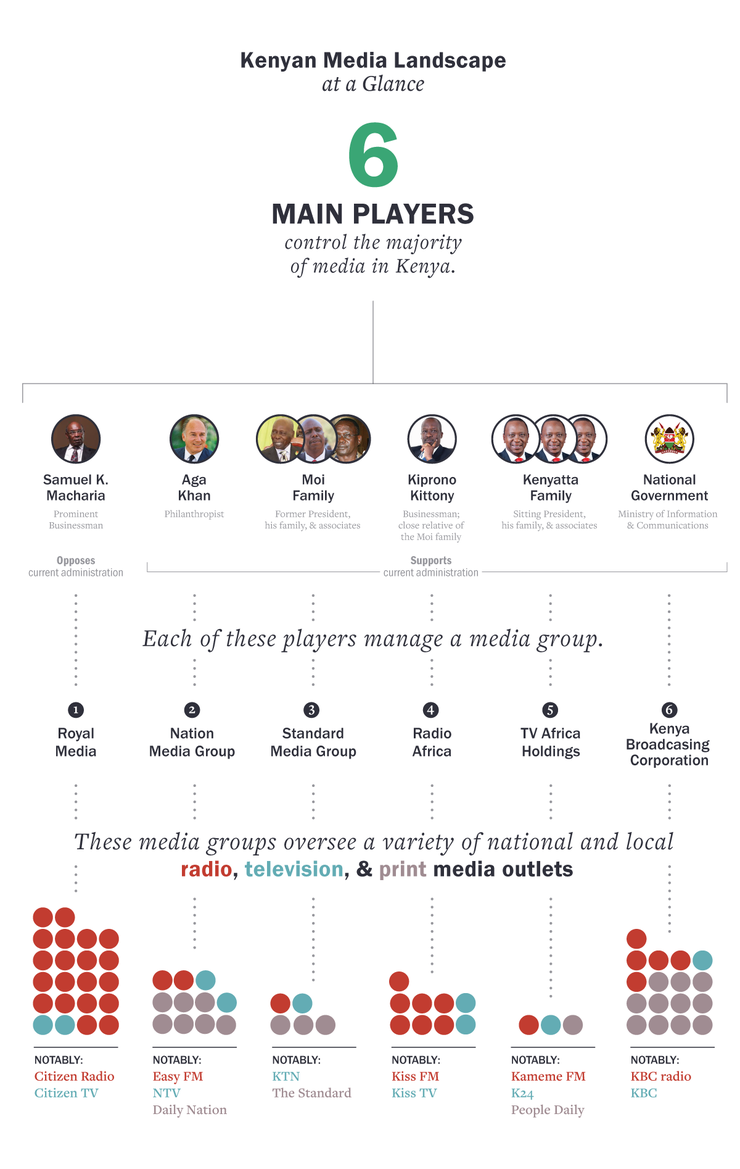
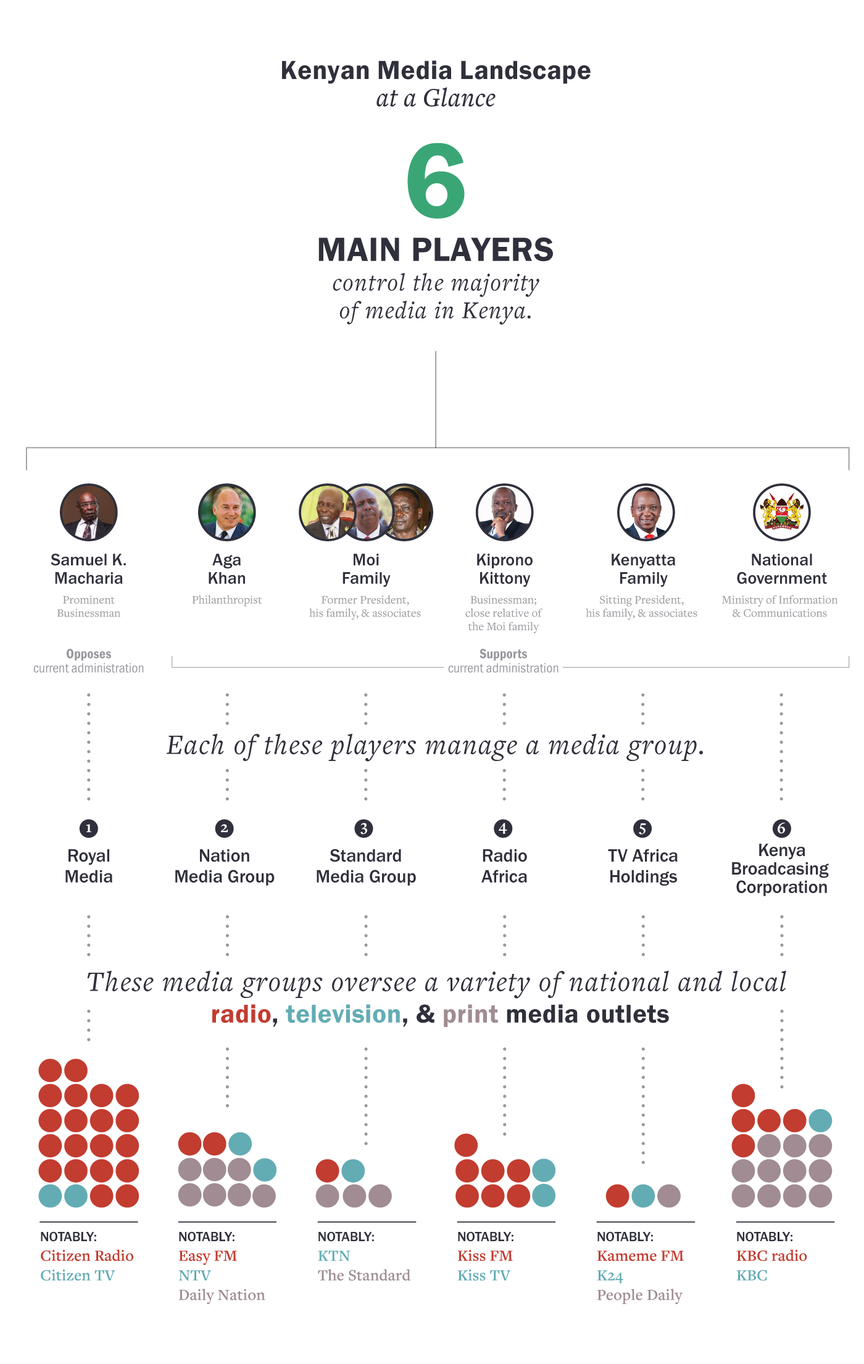
Removed extraneous kenyatta images

diff --git a/_site/assets/main.css b/_site/assets/main.css
@@ -1,1 +1,1 @@
-html,body,div,span,applet,object,iframe{margin:0;padding:0;border:0;font-size:100%;font:inherit;vertical-align:baseline}article,aside,details,figcaption,figure,footer,header,hgroup,menu,nav,section{display:block}/*! normalize.css v6.0.0 | MIT License | github.com/necolas/normalize.css */html{line-height:1.15;-ms-text-size-adjust:100%;-webkit-text-size-adjust:100%}article,aside,footer,header,nav,section{display:block}h1{font-size:2em;margin:0.67em 0}figcaption,figure,main{display:block}figure{margin:1em 40px}hr{box-sizing:content-box;height:0;overflow:visible}pre{font-family:monospace, monospace;font-size:1em}a{background-color:transparent;-webkit-text-decoration-skip:objects}abbr[title]{border-bottom:none;text-decoration:underline;text-decoration:underline dotted}b,strong{font-weight:inherit}b,strong{font-weight:bolder}code,kbd,samp{font-family:monospace, monospace;font-size:1em}dfn{font-style:italic}mark{background-color:#ff0;color:#000}small{font-size:80%}sub,sup{font-size:75%;line-height:0;position:relative;vertical-align:baseline}sub{bottom:-0.25em}sup{top:-0.5em}audio,video{display:inline-block}audio:not([controls]){display:none;height:0}img{border-style:none}svg:not(:root){overflow:hidden}button,input,optgroup,select,textarea{margin:0}button,input{overflow:visible}button,select{text-transform:none}button,html [type="button"],[type="reset"],[type="submit"]{-webkit-appearance:button}button::-moz-focus-inner,[type="button"]::-moz-focus-inner,[type="reset"]::-moz-focus-inner,[type="submit"]::-moz-focus-inner{border-style:none;padding:0}button:-moz-focusring,[type="button"]:-moz-focusring,[type="reset"]:-moz-focusring,[type="submit"]:-moz-focusring{outline:1px dotted ButtonText}legend{box-sizing:border-box;color:inherit;display:table;max-width:100%;padding:0;white-space:normal}progress{display:inline-block;vertical-align:baseline}textarea{overflow:auto}[type="checkbox"],[type="radio"]{box-sizing:border-box;padding:0}[type="number"]::-webkit-inner-spin-button,[type="number"]::-webkit-outer-spin-button{height:auto}[type="search"]{-webkit-appearance:textfield;outline-offset:-2px}[type="search"]::-webkit-search-cancel-button,[type="search"]::-webkit-search-decoration{-webkit-appearance:none}::-webkit-file-upload-button{-webkit-appearance:button;font:inherit}details,menu{display:block}summary{display:list-item}canvas{display:inline-block}template{display:none}[hidden]{display:none}*,*::before,*::after{box-sizing:border-box}body{background:#2e2f3a;color:#f7f7f7;font-family:"freight-text-pro",serif}img{max-width:100%}.wrapper{margin:0 auto;width:100%;max-width:1200px;padding:0 2.5rem}@media (max-width: 600px){.wrapper{padding-left:1rem;padding-right:1rem}}.header{background:#E8E8E8;border-bottom:0.8rem solid #3ca573;padding:1.5rem 0;overflow:hidden;-webkit-transition:height .5s ease;transition:height .5s ease}.header__wrap{height:13rem}@media (max-width: 600px){.header__wrap{height:auto}}.header--down{height:6.5rem;position:fixed;top:-1px;padding:0;width:100%;z-index:5}@media (max-width: 600px){.header--down{height:auto;position:static}}.header--up{border:0;height:0;position:fixed;top:0;padding:0;width:100%;z-index:2}@media (max-width: 600px){.header--up{height:auto;position:static}}.header__logo{display:block;float:left;margin:0 auto;text-align:center;text-decoration:none;width:12rem}.content>*{margin-left:33%}@media (max-width: 600px){.content>*{margin-left:0}}section{padding-top:1.8rem}section:last-of-type{padding-bottom:6rem}figure{margin:2rem 0 4rem}figure figcaption{font-family:"freight-text-pro",serif;line-height:1.3;margin:1rem 0 2rem 0;text-align:left}figure .source{font-style:italic;opacity:.5}figure>img{width:100%}.fullWidth.fullWidth{margin-left:0;position:relative;width:100%}.no-scroll{overflow:hidden}.clearfix{clear:both}.arrowWrap{display:inline-block;vertical-align:middle}.arrowWrap a{display:inline-block;border-radius:50%}.arrowWrap .left{display:inline-block;width:4rem;height:4rem;border:0.5rem solid #ecef86;border-radius:50%;margin-right:1.5rem}.arrowWrap .left:after{content:'';display:inline-block;margin-top:.8rem;margin-left:.9rem;width:1.4rem;height:1.4rem;border-top:0.5rem solid #ecef86;border-right:0.5rem solid #ecef86;-webkit-transform:rotate(-135deg);transform:rotate(-135deg)}.arrowWrap .right{display:inline-block;width:4rem;height:4rem;border:0.5em solid #ecef86;border-radius:50%;margin-left:1.5rem}.arrowWrap .right:after{content:'';display:inline-block;margin-top:.8rem;margin-left:.6rem;width:1.4rem;height:1.4rem;border-top:0.5rem solid #ecef86;border-right:0.5rem solid #ecef86;-webkit-transform:rotate(45deg);transform:rotate(45deg)}.flexColumns{display:-webkit-box;display:-ms-flexbox;display:flex;-webkit-box-orient:horizontal;-webkit-box-direction:normal;-ms-flex-direction:row;flex-direction:row}@media (max-width: 600px){.flexColumns{-webkit-box-orient:vertical;-webkit-box-direction:normal;-ms-flex-direction:column;flex-direction:column}}.col-1-2{width:50%}@media (max-width: 600px){.col-1-2{width:100%}}.iframe{max-width:100%}.wf-loading a,.wf-loading span,.wf-loading h1,.wf-loading h2,.wf-loading h3,.wf-loading h4,.wf-loading p{visibility:hidden}h1,h2,h3,h4,h5,h6{font-family:"franklin-gothic-urw",sans-serif}h1{font-size:3.8rem;font-weight:700;line-height:1;max-width:27rem}@media (max-width: 768px){h1{font-size:2.8rem}}@media (max-width: 600px){h1{font-size:2rem}}h2{color:#ecef86;font-size:2.5rem;font-weight:700;line-height:1;padding:0 0 1rem 0}.bg--white h2{color:#3ca573;border-color:#9f9fa5}.bg--green h2{color:#f7f7f7;border-color:#f7f7f7}.bg--lightGrey h2{color:#313131;border-color:#313131}h3{color:#3ca573;font-size:2rem}.bg--green h3{color:#f7f7f7}h4{color:#f7f7f7;font-size:1.5rem;margin-bottom:1rem}.bg--lightGrey h4{color:#2e2f3a}.bg--white h4{color:#2e2f3a}h5{font-size:1.2rem}p{font-family:"franklin-gothic-urw",sans-serif;font-size:1.14rem;line-height:1.55;margin:0 0 1rem 0}p a{-webkit-transition:.2s all ease;transition:.2s all ease;border-color:rgba(236,239,134,0)}p a:link,p a:active{color:#ecef86;text-decoration:none}p a:hover{border-bottom:1px solid;border-color:#ecef86}p a:visited{color:#c6c27d}ul{line-height:1.5}blockquote{margin:0;padding:0}blockquote p{color:#ecef86;font-family:"freight-text-pro",serif;font-size:2.3rem;font-style:italic;font-weight:700;line-height:1.3;margin:2rem 0 2.5rem}.bg--white blockquote p,.bg--lightGrey blockquote p{color:#3ca573}blockquote.floatLeft p{font-size:2rem;line-height:1.2;margin:0 1rem 1rem 0}@media (max-width: 768px){blockquote.floatLeft p{font-size:1.5rem}}.content a[target="_blank"]::after{content:'';background:no-repeat url("img/externalArrow.png");display:inline-block;height:10px;margin:0 3px 0 5px;width:10px}.subheading{color:#313131;font-family:"freight-text-pro",serif;font-size:1.8rem;font-style:italic;font-weight:700;line-height:1.3}.introduction>p:nth-of-type(1){border-bottom:4px solid #ecef86;font-family:"freight-text-pro",serif;font-size:1.5rem;line-height:1.6;margin-bottom:2.7rem;padding:1.8rem 0}.introduction>p:nth-of-type(1)::first-letter{color:#ecef86;float:left;font-family:"freight-text-pro",serif;font-size:6rem;line-height:.7;margin-top:.3rem;padding-right:.7rem}.twoColumnWrap.twoColumnWrap{max-width:calc((1200px * (2/3)) - (2.5rem/2))}@media (max-width: 600px){.twoColumnWrap.twoColumnWrap{padding-left:1rem;padding-right:1rem;width:100%}}.constituentCard{margin-left:calc(33% - (2.5rem / 2))}@media (max-width: 600px){.constituentCard{margin:0}}.constituentCard__bottom{background:#f7f7f7;padding:1.5rem 0 0}.constituentCard__bottom>*{margin-left:2.5rem}@media (max-width: 600px){.constituentCard__bottom>*{margin-left:0}}.constituentCard__bottom h2{color:#2e2f3a;margin-top:0}.constituentCard__bottom .title{font-size:3.5rem;font-weight:700}@media (max-width: 600px){.constituentCard__bottom .title{font-size:2.5rem}}.preTitle{display:block;font-size:1.6rem;font-weight:500;letter-spacing:5px;opacity:.5;text-transform:uppercase}@media (max-width: 600px){.preTitle{font-size:1.3rem}}.constituent>.content:first-child{padding-bottom:3rem;padding-top:2rem}.homepageTitle h1{color:#f7f7f7;font-family:"freight-text-pro",serif;font-size:4rem;line-height:1;margin:3rem 0 1rem 0;max-width:32rem}.homepageTitle .subheading{color:#f7f7f7;display:block;font-family:"franklin-gothic-urw",sans-serif;font-size:2.4rem;font-style:normal;line-height:1.1;margin:0 0 2rem 0;opacity:.4;max-width:30rem}.homepageImg{float:right;margin-top:-5rem;width:100%;max-width:46em}@media (max-width: 600px){.homepageImg{margin-top:2rem}}.flyOut__inner__text.flyOut__inner__text h1,.flyOut__inner__text.flyOut__inner__text h2,.flyOut__inner__text.flyOut__inner__text h3,.flyOut__inner__text.flyOut__inner__text h4,.flyOut__inner__text.flyOut__inner__text h5,.flyOut__inner__text.flyOut__inner__text h6,.flyOut__inner__text.flyOut__inner__text p{font-family:"franklin-gothic-urw",sans-serif}.flyOut__inner__text.flyOut__inner__text h3{color:#2e2f3a}.flyOut__inner__text.flyOut__inner__text h4{color:#3ca573}.flyOut__inner__text.flyOut__inner__text p{color:#313131}.nextSection{display:block;font-size:2rem;margin:2rem auto;text-align:center;max-width:32rem}.nextSection a:active,.nextSection a:hover,.nextSection a:link,.nextSection a:visited{color:#f7f7f7;text-decoration:none}#g-ON_matrix-desktop .flyOut__inner__text p,#g-ON_matrix-tablet .flyOut__inner__text p,#g-ON_matrix-mobile .flyOut__inner__text p{color:#313131}#g-ON_matrix-desktop .flyOut__inner__text p a:link,#g-ON_matrix-desktop .flyOut__inner__text p a:active,#g-ON_matrix-tablet .flyOut__inner__text p a:link,#g-ON_matrix-tablet .flyOut__inner__text p a:active,#g-ON_matrix-mobile .flyOut__inner__text p a:link,#g-ON_matrix-mobile .flyOut__inner__text p a:active{color:#3ca573}#g-ON_matrix-desktop .flyOut__inner__text p a:hover,#g-ON_matrix-tablet .flyOut__inner__text p a:hover,#g-ON_matrix-mobile .flyOut__inner__text p a:hover{opacity:.8}#g-ON_matrix-desktop .flyOut__inner__text p a:visited,#g-ON_matrix-tablet .flyOut__inner__text p a:visited,#g-ON_matrix-mobile .flyOut__inner__text p a:visited{color:#a4cdac}nav{font-family:"franklin-gothic-urw",sans-serif}.mainNav{border-top:1px solid #9f9fa5;display:-webkit-box;display:-ms-flexbox;display:flex;float:right;-webkit-box-pack:justify;-ms-flex-pack:justify;justify-content:space-between;line-height:1;padding:0 0 1rem;width:66%}@media (max-width: 600px){.mainNav{clear:both;-webkit-box-orient:vertical;-webkit-box-direction:normal;-ms-flex-direction:column;flex-direction:column;float:left;display:none;margin-top:2rem;width:100%}}.mainNav a{width:33%;color:#3ca573;margin:0 0 0 2rem;padding:1rem 0 0 0;position:relative;text-decoration:none}@media (max-width: 600px){.mainNav a{display:block;margin:0 auto 1rem;width:100%}}.mainNav a:first-child{margin-left:0}@media (max-width: 600px){.mainNav a:first-child{margin-left:auto}}.mainNav a:first-child::after{background:#313131;content:'';height:0rem;left:-1rem;position:absolute;top:0;width:0px}.mainNav a::after{background:#9f9fa5;content:'';height:1.5rem;left:-1rem;position:absolute;top:0;width:1px}@media (max-width: 600px){.mainNav a::after{height:0;width:0}}.mainNav a.active{color:#2e2f3a}.mainNav__preTitle{color:#9f9fa5;display:block;font-family:"franklin-gothic-urw",sans-serif;font-size:.9rem;letter-spacing:2px;margin-bottom:.2rem;text-transform:uppercase}.mainNav__title{display:block;font-size:1.2rem;font-weight:700;max-width:16rem}.mainNav__button{display:none}@media (max-width: 600px){.mainNav__button{color:#2e2f3a;display:block;float:right;font-size:2rem}}.toc.toc{color:white;counter-reset:item;float:left;margin-left:calc(-21rem + 2rem);padding:1.8rem 0 1.8rem 0;position:-webkit-sticky;position:sticky;top:calc(50vh - 4.5rem);-webkit-transform:translateY(-50%);transform:translateY(-50%);-webkit-transition:.8s all ease;transition:.8s all ease;width:21rem;z-index:4}.toc.toc:hover{margin-left:0}@media (max-width: 600px){.toc.toc{float:none;margin:0 auto;padding:0;position:static;-webkit-transform:none;transform:none;width:100%}}.toc.toc li{position:relative}.toc.toc li:first-of-type{border-radius:0 .5rem 0 0;overflow:hidden}@media (max-width: 600px){.toc.toc li:first-of-type{border-radius:0}}.toc.toc li:last-of-type{border-radius:0 0 .5rem 0;overflow:hidden}@media (max-width: 600px){.toc.toc li:last-of-type{border-radius:0}}.toc.toc li::after{content:counter(item);counter-increment:item;font-family:"franklin-gothic-urw",sans-serif;position:absolute;right:.8rem;text-shadow:1px 1px 1px rgba(0,0,0,0.3);top:1rem}.toc.toc a{background:#3ca573;color:#f7f7f7;display:block;padding:1rem;text-decoration:none;-webkit-transition:.4s all ease;transition:.4s all ease}.toc.toc a:link,.toc.toc a:visited,.toc.toc a:active{color:#f7f7f7}.toc.toc a:hover{background:#a4cdac;color:#f7f7f7}.toc.toc .nav-active.nav-active{background:#ecef86;color:#2e2f3a}.toc ul{font-family:"freight-text-pro",serif;font-size:1.2rem;list-style-type:none;margin:0;padding:0}.toc__preTitle{color:#9f9fa5;display:block;font-family:"franklin-gothic-urw",sans-serif;letter-spacing:3px;margin-right:2rem;mix-blend-mode:difference;padding-left:1rem;text-transform:uppercase;max-width:calc(21rem - 2rem)}@media (max-width: 600px){.toc__preTitle{display:none}}.toc__title{color:#9f9fa5;display:inline-block;font-size:1.3em;margin-right:2rem;mix-blend-mode:difference;padding:0 0 .6rem 1rem}@media (max-width: 600px){.toc__title{display:none}}.floatLeft.floatLeft{float:left;margin:0;width:calc(33% - (2.5rem/2))}@media (max-width: 600px){.floatLeft.floatLeft{float:none;margin:auto;width:100%}}[class*='bg--']{margin:0 !important;padding:3rem 0}.bg--white{background:#f7f7f7;color:#313131}.bg--white a{border-color:rgba(159,159,165,0)}.bg--white a:link,.bg--white a:active{color:#9f9fa5}.bg--white a:visited{color:#2e2f3a}.bg--white a:hover{border-color:#9f9fa5}.bg--green{background:#3ca573;color:#f7f7f7}.bg--lightGrey{background:#E8E8E8;color:#313131}.bg--lightGrey a{border-color:rgba(159,159,165,0)}.bg--lightGrey a:link,.bg--lightGrey a:active{color:#9f9fa5}.bg--lightGrey a:visited{color:#2e2f3a}.bg--lightGrey a:hover{border-color:#9f9fa5}.footer{background:#E8E8E8;min-height:12rem;margin:0;padding:4rem 0 6rem}.footer__meta{color:#313131;display:-webkit-box;display:-ms-flexbox;display:flex}@media (max-width: 600px){.footer__meta{-webkit-box-orient:vertical;-webkit-box-direction:normal;-ms-flex-direction:column;flex-direction:column}}.footer__meta__desc{-webkit-box-flex:2;-ms-flex:2;flex:2;font-size:1.2rem;line-height:1.4;margin-right:2rem}@media (max-width: 600px){.footer__meta__desc{margin-bottom:1rem}}.footer__meta__nav{-webkit-box-flex:1;-ms-flex:1;flex:1;font-size:1.4rem}.footer__meta__nav a{border-top:1px solid #313131;color:#313131;display:block;padding:1rem 0;text-decoration:none}.footer__logos{border-top:1px solid #313131;display:-webkit-box;display:-ms-flexbox;display:flex;margin:1rem auto 0;-webkit-box-pack:justify;-ms-flex-pack:justify;justify-content:space-between;padding:2rem 0 0 0}@media (max-width: 600px){.footer__logos{-webkit-box-orient:vertical;-webkit-box-direction:normal;-ms-flex-direction:column;flex-direction:column}}.footer__logos>img{width:29%;max-width:16rem}@media (max-width: 600px){.footer__logos>img{margin:1rem auto;padding:0;width:100%}}.footer__logos .footer__logos__reboot{max-width:13rem}.button{border:2px solid #f7f7f7;cursor:pointer;display:inline-block;font-size:1.6rem;margin:1rem 0;padding:1.2rem 1.5rem;position:relative;-webkit-transition:.2s all ease;transition:.2s all ease}.button:hover{background:rgba(255,255,255,0.1)}.bg--white .button,.bg--lightGrey .button{border-color:#313131}.button a:link,.button a:active,.button a:visited{color:#f7f7f7;text-decoration:none}.button .button__type{display:block;font-family:"franklin-gothic-urw",sans-serif;font-size:1.1rem;letter-spacing:2px;opacity:.5;text-transform:uppercase}.button.flyOutButton::before{content:'➔';opacity:.3;position:absolute;right:1rem;top:.8rem}.flyOut{display:-webkit-box;display:-ms-flexbox;display:flex;margin:0;position:fixed;width:100%;height:100%;top:0;left:0;z-index:999999;pointer-events:none}.flyOut.flyOut__active{pointer-events:auto}.flyOut__bg{position:absolute;width:100%;height:100%;top:0;left:0;background-color:rgba(0,0,0,0.75);opacity:0;-webkit-transition:opacity .3s;transition:opacity .3s}.flyOut__active .flyOut__bg{opacity:1}.flyOut__inner{background:#E8E8E8;color:#313131;left:100%;margin-left:auto;overflow-y:auto;position:relative;width:1020px;max-width:100%;-webkit-transition:left .4s;transition:left .4s}.flyOut__active .flyOut__inner{left:0}.flyOut__inner__text{padding:3.5rem 2.5rem}.flyOut__active .flyOut__inner__text{left:0}.flyOut__close{cursor:pointer;pointer-events:all}.flyOut__active .flyOut__close{background:#E8E8E8;border:2px solid #313131;display:block;font-family:"franklin-gothic-urw",sans-serif;padding:.6rem .7rem .5rem;position:fixed;top:1rem}.flyOut__close svg{width:1rem;height:1rem}.meter__wrap{font-size:1.5rem;margin:-.3rem 0 1rem;padding-top:1rem;position:relative;width:50%}@media (max-width: 600px){.meter__wrap{margin-top:0;width:100%}}.meter__wrap::after{content:'Effect of coping strategy';display:block;font-family:"franklin-gothic-urw",sans-serif;font-size:.8rem;letter-spacing:2px;margin:.5rem 0 0 0;opacity:.4;text-align:center;text-transform:uppercase}.meter__label__negative{float:left}.meter__label__positive{float:right;text-align:right}.meter__arrow--down{border-left:.8rem solid transparent;border-right:.8rem solid transparent;border-top:.8rem solid #000;height:0;left:50%;margin-bottom:.5rem;position:absolute;-webkit-transform:translateX(-50%);transform:translateX(-50%);width:0;z-index:2}.meter{border:1px solid #9f9fa5;border-radius:20px;height:20px;overflow:hidden;margin:auto;position:relative;width:100%}.tick__wrap{display:-webkit-box;display:-ms-flexbox;display:flex;-webkit-box-orient:horizontal;-webkit-box-direction:normal;-ms-flex-direction:row;flex-direction:row;height:20px;position:absolute;width:100%;z-index:2}.tick{mix-blend-mode:multiply;border-left:1px solid #9f9fa5;display:block;-webkit-box-flex:1;-ms-flex-positive:1;flex-grow:1;height:20px;top:0}.tick:first-child{border:0}.meter__inner{bottom:0;height:20px;position:absolute;width:0}.meter__inner.positive{background:#3ca573;left:50%}.meter__inner.positive::after{background:#313131;content:'';height:20px;left:0;position:absolute;width:1px;z-index:3}.meter__inner.negative{background:#ecef86;left:50%;-webkit-transform:translateX(-100%);transform:translateX(-100%)}.meter__inner.negative::after{background:#313131;content:'';height:20px;position:absolute;right:0;width:1px;z-index:3}.profile{display:block}@media (max-width: 600px){.profile{width:100%}}.government .profile{max-width:47rem}.ai2html{font-family:"franklin-gothic-urw",sans-serif}.g-flyOutButton{cursor:pointer;-webkit-transition:.2s all ease;transition:.2s all ease}.g-flyOutButton:hover{text-decoration:underline}@media (max-width: 768px){.g-desktop{display:none}}@media (max-width: 600px){.g-desktop{display:none}}@media (min-width: 769px){.g-tablet{display:none}}@media (max-width: 600px){.g-tablet{display:none}}@media (min-width: 769px){.g-mobile{display:none}}@media (max-width: 768px){.g-mobile{display:none}}@media (max-width: 600px){.g-mobile{display:block}}.timeline{-webkit-box-align:top;-ms-flex-align:top;align-items:top;background:#E8E8E8;color:#313131;display:-webkit-box;display:-ms-flexbox;display:flex;margin:3rem 5% 1rem;position:relative;width:100%;max-width:1200px}@media (max-width: 600px){.timeline{height:480px}}.top{position:absolute;top:0}.bottom{position:absolute;bottom:0}.timeline__scale{position:relative;background:#3ca573;width:40px;height:600px;color:#fff}@media (max-width: 600px){.timeline__scale{height:480px}}.timeline__scale .top,.timeline__scale .bottom{font-size:35px;font-weight:700;text-align:center;margin-left:7px}.timeline__scale__label{-webkit-transform:rotate(-90deg);transform:rotate(-90deg);position:absolute;left:-50px;top:calc(50% - 30px);font-family:"franklin-gothic-urw",sans-serif;text-transform:uppercase}.timeline__viewport{overflow:scroll;white-space:nowrap;width:100%}.timelineWindow{width:70%;height:600px;z-index:0;position:absolute}@media (max-width: 600px){.timelineWindow{height:480px}}.timeline__section{display:inline-block;clear:none;width:450px;height:600px;position:relative;border-right:1px solid #2e2f3a}@media (max-width: 600px){.timeline__section{width:250px;height:480px}}.timeline__section svg{height:600px;opacity:.2;position:absolute;-webkit-transition:1s all ease;transition:1s all ease;width:100%;z-index:0}@media (max-width: 600px){.timeline__section svg{height:480px}}.active svg{opacity:1}.timeline__section__year{background:#fff;bottom:0;font-family:"franklin-gothic-urw",sans-serif;padding:.5rem;position:absolute;text-align:center;width:100%;z-index:2}.timeline__section__introduction{margin:15px;position:absolute;top:0;-webkit-transform:translateY(50%);transform:translateY(50%);white-space:normal;z-index:2}.timeline__section__introduction p{font-size:2rem;font-weight:700;line-height:1.2;opacity:.3;max-width:16rem}.timeline__section__event{font-family:"freight-text-pro",serif;padding:0 15px;position:absolute;top:25rem;white-space:normal;z-index:2}@media (max-width: 600px){.timeline__section__event{top:19rem}}.timeline__section__event p{font-family:"freight-text-pro",serif;font-size:1rem}@media (max-width: 600px){.timeline__section__event p{font-size:.8rem}}.timeline__section__event__title::before,.timeline__section__implication::before{color:#313131;display:block;font-family:"franklin-gothic-urw",sans-serif;font-size:.8rem;font-weight:700;letter-spacing:2px;margin-bottom:.3rem;opacity:.5;text-transform:uppercase}.timeline__section__event__title{display:block;font-size:1.2rem;font-weight:700;margin-bottom:.5rem}@media (max-width: 600px){.timeline__section__event__title{font-size:1rem;margin-bottom:.3rem}}.timeline__section__event__title::before{content:'Event'}.timeline__section__implication{border-bottom:1px solid #313131;margin:15px;opacity:0;padding-bottom:.5rem;position:absolute;top:0;-webkit-transition:1s all ease;transition:1s all ease;white-space:normal;z-index:2}.timeline__section__implication::before{content:'Implication'}.active .timeline__section__implication{opacity:1}.timeline__section__implication p,.timeline__section__implication li{font-family:"franklin-gothic-urw",sans-serif;font-size:1rem;line-height:1.3;margin-bottom:.8rem}@media (max-width: 600px){.timeline__section__implication p,.timeline__section__implication li{font-size:.8rem}}.timelineButtonLeft{float:left}.timelineButtonRight{float:right}
+html,body,div,span,applet,object,iframe{margin:0;padding:0;border:0;font-size:100%;font:inherit;vertical-align:baseline}article,aside,details,figcaption,figure,footer,header,hgroup,menu,nav,section{display:block}/*! normalize.css v6.0.0 | MIT License | github.com/necolas/normalize.css */html{line-height:1.15;-ms-text-size-adjust:100%;-webkit-text-size-adjust:100%}article,aside,footer,header,nav,section{display:block}h1{font-size:2em;margin:0.67em 0}figcaption,figure,main{display:block}figure{margin:1em 40px}hr{box-sizing:content-box;height:0;overflow:visible}pre{font-family:monospace, monospace;font-size:1em}a{background-color:transparent;-webkit-text-decoration-skip:objects}abbr[title]{border-bottom:none;text-decoration:underline;text-decoration:underline dotted}b,strong{font-weight:inherit}b,strong{font-weight:bolder}code,kbd,samp{font-family:monospace, monospace;font-size:1em}dfn{font-style:italic}mark{background-color:#ff0;color:#000}small{font-size:80%}sub,sup{font-size:75%;line-height:0;position:relative;vertical-align:baseline}sub{bottom:-0.25em}sup{top:-0.5em}audio,video{display:inline-block}audio:not([controls]){display:none;height:0}img{border-style:none}svg:not(:root){overflow:hidden}button,input,optgroup,select,textarea{margin:0}button,input{overflow:visible}button,select{text-transform:none}button,html [type="button"],[type="reset"],[type="submit"]{-webkit-appearance:button}button::-moz-focus-inner,[type="button"]::-moz-focus-inner,[type="reset"]::-moz-focus-inner,[type="submit"]::-moz-focus-inner{border-style:none;padding:0}button:-moz-focusring,[type="button"]:-moz-focusring,[type="reset"]:-moz-focusring,[type="submit"]:-moz-focusring{outline:1px dotted ButtonText}legend{box-sizing:border-box;color:inherit;display:table;max-width:100%;padding:0;white-space:normal}progress{display:inline-block;vertical-align:baseline}textarea{overflow:auto}[type="checkbox"],[type="radio"]{box-sizing:border-box;padding:0}[type="number"]::-webkit-inner-spin-button,[type="number"]::-webkit-outer-spin-button{height:auto}[type="search"]{-webkit-appearance:textfield;outline-offset:-2px}[type="search"]::-webkit-search-cancel-button,[type="search"]::-webkit-search-decoration{-webkit-appearance:none}::-webkit-file-upload-button{-webkit-appearance:button;font:inherit}details,menu{display:block}summary{display:list-item}canvas{display:inline-block}template{display:none}[hidden]{display:none}*,*::before,*::after{box-sizing:border-box}body{background:#2e2f3a;color:#f7f7f7;font-family:"freight-text-pro",serif}img{max-width:100%}.wrapper{margin:0 auto;width:100%;max-width:1200px;padding:0 2.5rem}@media (max-width: 600px){.wrapper{padding-left:1rem;padding-right:1rem}}.header{background:#E8E8E8;border-bottom:0.8rem solid #3ca573;padding:1.5rem 0;overflow:hidden;-webkit-transition:height .5s ease;transition:height .5s ease}.header__wrap{height:13rem}@media (max-width: 600px){.header__wrap{height:auto}}.header--down{height:6.5rem;position:fixed;top:-1px;padding:0;width:100%;z-index:5}@media (max-width: 600px){.header--down{height:auto;position:static}}.header--up{border:0;height:0;position:fixed;top:0;padding:0;width:100%;z-index:2}@media (max-width: 600px){.header--up{height:auto;position:static}}.header__logo{display:block;float:left;margin:0 auto;text-align:center;text-decoration:none;width:12rem}.content>*{margin-left:33%}@media (max-width: 600px){.content>*{margin-left:0}}section{padding-top:1.8rem}section:last-of-type{padding-bottom:6rem}figure{margin:2rem 0 4rem}figure figcaption{font-family:"freight-text-pro",serif;line-height:1.3;margin:1rem 0 2rem 0;text-align:left}figure .source{font-style:italic;opacity:.5}figure>img{width:100%}.fullWidth.fullWidth{margin-left:0;position:relative;width:100%}.no-scroll{overflow:hidden}.clearfix{clear:both}.arrowWrap{display:inline-block;vertical-align:middle}.arrowWrap a{display:inline-block;border-radius:50%}.arrowWrap .left{display:inline-block;width:4rem;height:4rem;border:0.5rem solid #ecef86;border-radius:50%;margin-right:1.5rem}.arrowWrap .left:after{content:'';display:inline-block;margin-top:.8rem;margin-left:.9rem;width:1.4rem;height:1.4rem;border-top:0.5rem solid #ecef86;border-right:0.5rem solid #ecef86;-webkit-transform:rotate(-135deg);transform:rotate(-135deg)}.arrowWrap .right{display:inline-block;width:4rem;height:4rem;border:0.5em solid #ecef86;border-radius:50%;margin-left:1.5rem}.arrowWrap .right:after{content:'';display:inline-block;margin-top:.8rem;margin-left:.6rem;width:1.4rem;height:1.4rem;border-top:0.5rem solid #ecef86;border-right:0.5rem solid #ecef86;-webkit-transform:rotate(45deg);transform:rotate(45deg)}.flexColumns{display:-webkit-box;display:-ms-flexbox;display:flex;-webkit-box-orient:horizontal;-webkit-box-direction:normal;-ms-flex-direction:row;flex-direction:row}@media (max-width: 600px){.flexColumns{-webkit-box-orient:vertical;-webkit-box-direction:normal;-ms-flex-direction:column;flex-direction:column}}.col-1-2{width:50%}@media (max-width: 600px){.col-1-2{width:100%}}.iframe{max-width:100%}.wf-loading a,.wf-loading span,.wf-loading h1,.wf-loading h2,.wf-loading h3,.wf-loading h4,.wf-loading p{visibility:hidden}h1,h2,h3,h4,h5,h6{font-family:"franklin-gothic-urw",sans-serif}h1{font-size:3.8rem;font-weight:700;line-height:1;max-width:27rem}@media (max-width: 768px){h1{font-size:2.8rem}}@media (max-width: 600px){h1{font-size:2rem}}h2{color:#ecef86;font-size:2.5rem;font-weight:700;line-height:1;padding:0 0 1rem 0}.bg--white h2{color:#3ca573;border-color:#9f9fa5}.bg--green h2{color:#f7f7f7;border-color:#f7f7f7}.bg--lightGrey h2{color:#313131;border-color:#313131}h3{color:#3ca573;font-size:2rem}.bg--green h3{color:#f7f7f7}h4{color:#f7f7f7;font-size:1.5rem;margin-bottom:1rem}.bg--lightGrey h4{color:#2e2f3a}.bg--white h4{color:#2e2f3a}h5{font-size:1.2rem}p{font-family:"franklin-gothic-urw",sans-serif;font-size:1.14rem;line-height:1.55;margin:0 0 1rem 0}p a{-webkit-transition:.2s all ease;transition:.2s all ease;border-color:rgba(236,239,134,0)}p a:link,p a:active{color:#ecef86;text-decoration:none}p a:hover{border-bottom:1px solid;border-color:#ecef86}p a:visited{color:#c6c27d}ul{line-height:1.5}blockquote{margin:0;padding:0}blockquote p{color:#ecef86;font-family:"freight-text-pro",serif;font-size:2.3rem;font-style:italic;font-weight:700;line-height:1.3;margin:2rem 0 2.5rem}.bg--white blockquote p,.bg--lightGrey blockquote p{color:#3ca573}blockquote.floatLeft p{font-size:2rem;line-height:1.2;margin:0 1rem 1rem 0}@media (max-width: 768px){blockquote.floatLeft p{font-size:1.5rem}}.content a[target="_blank"]::after{content:'';background:no-repeat url("img/externalArrow.png");display:inline-block;height:10px;margin:0 3px 0 5px;width:10px}.subheading{color:#313131;font-family:"freight-text-pro",serif;font-size:1.8rem;font-style:italic;font-weight:700;line-height:1.3}.introduction>p:nth-of-type(1){border-bottom:4px solid #ecef86;font-family:"freight-text-pro",serif;font-size:1.5rem;line-height:1.6;margin-bottom:2.7rem;padding:1.8rem 0}.introduction>p:nth-of-type(1)::first-letter{color:#ecef86;float:left;font-family:"freight-text-pro",serif;font-size:6rem;line-height:.7;margin-top:.3rem;padding-right:.7rem}.twoColumnWrap.twoColumnWrap{max-width:calc((1200px * (2/3)) - (2.5rem/2))}@media (max-width: 600px){.twoColumnWrap.twoColumnWrap{padding-left:1rem;padding-right:1rem;width:100%}}.constituentCard{margin-left:calc(33% - (2.5rem / 2))}@media (max-width: 600px){.constituentCard{margin:0}}.constituentCard__bottom{background:#f7f7f7;padding:1.5rem 0 0}.constituentCard__bottom>*{margin-left:2.5rem}@media (max-width: 600px){.constituentCard__bottom>*{margin-left:0}}.constituentCard__bottom h2{color:#2e2f3a;margin-top:0}.constituentCard__bottom .title{font-size:3.5rem;font-weight:700}@media (max-width: 600px){.constituentCard__bottom .title{font-size:2.5rem}}.preTitle{display:block;font-size:1.6rem;font-weight:500;letter-spacing:5px;opacity:.5;text-transform:uppercase}@media (max-width: 600px){.preTitle{font-size:1.3rem}}.constituent>.content:first-child{padding-bottom:3rem;padding-top:2rem}.homepageTitle h1{color:#f7f7f7;font-family:"freight-text-pro",serif;font-size:4rem;line-height:1;margin:3rem 0 1rem 0;max-width:32rem}.homepageTitle .subheading{color:#f7f7f7;display:block;font-family:"franklin-gothic-urw",sans-serif;font-size:2.4rem;font-style:normal;line-height:1.1;margin:0 0 2rem 0;opacity:.4;max-width:30rem}.homepageImg{float:right;margin-top:-5rem;width:100%;max-width:46em}@media (max-width: 600px){.homepageImg{margin-top:2rem}}.flyOut__inner__text.flyOut__inner__text h1,.flyOut__inner__text.flyOut__inner__text h2,.flyOut__inner__text.flyOut__inner__text h3,.flyOut__inner__text.flyOut__inner__text h4,.flyOut__inner__text.flyOut__inner__text h5,.flyOut__inner__text.flyOut__inner__text h6,.flyOut__inner__text.flyOut__inner__text p{font-family:"franklin-gothic-urw",sans-serif}.flyOut__inner__text.flyOut__inner__text h3{color:#2e2f3a}.flyOut__inner__text.flyOut__inner__text h4{color:#3ca573}.flyOut__inner__text.flyOut__inner__text p{color:#313131}.nextSection{display:block;font-size:2rem;margin:2rem auto;text-align:center;max-width:32rem}.nextSection a:active,.nextSection a:hover,.nextSection a:link,.nextSection a:visited{color:#f7f7f7;text-decoration:none}#g-ON_matrix-desktop .flyOut__inner__text p,#g-ON_matrix-tablet .flyOut__inner__text p,#g-ON_matrix-mobile .flyOut__inner__text p{color:#313131}#g-ON_matrix-desktop .flyOut__inner__text p a:link,#g-ON_matrix-desktop .flyOut__inner__text p a:active,#g-ON_matrix-tablet .flyOut__inner__text p a:link,#g-ON_matrix-tablet .flyOut__inner__text p a:active,#g-ON_matrix-mobile .flyOut__inner__text p a:link,#g-ON_matrix-mobile .flyOut__inner__text p a:active{color:#3ca573}#g-ON_matrix-desktop .flyOut__inner__text p a:hover,#g-ON_matrix-tablet .flyOut__inner__text p a:hover,#g-ON_matrix-mobile .flyOut__inner__text p a:hover{opacity:.8}#g-ON_matrix-desktop .flyOut__inner__text p a:visited,#g-ON_matrix-tablet .flyOut__inner__text p a:visited,#g-ON_matrix-mobile .flyOut__inner__text p a:visited{color:#a4cdac}nav{font-family:"franklin-gothic-urw",sans-serif}.mainNav{border-top:1px solid #9f9fa5;display:-webkit-box;display:-ms-flexbox;display:flex;float:right;-webkit-box-pack:justify;-ms-flex-pack:justify;justify-content:space-between;line-height:1;padding:0 0 1rem;width:66%}@media (max-width: 600px){.mainNav{clear:both;-webkit-box-orient:vertical;-webkit-box-direction:normal;-ms-flex-direction:column;flex-direction:column;float:left;display:none;margin-top:2rem;width:100%}}.mainNav a{width:33%;color:#3ca573;margin:0 0 0 2rem;padding:1rem 0 0 0;position:relative;text-decoration:none}@media (max-width: 600px){.mainNav a{display:block;margin:0 auto 1rem;width:100%}}.mainNav a:first-child{margin-left:0}@media (max-width: 600px){.mainNav a:first-child{margin-left:auto}}.mainNav a:first-child::after{background:#313131;content:'';height:0rem;left:-1rem;position:absolute;top:0;width:0px}.mainNav a::after{background:#9f9fa5;content:'';height:1.5rem;left:-1rem;position:absolute;top:0;width:1px}@media (max-width: 600px){.mainNav a::after{height:0;width:0}}.mainNav a.active{color:#2e2f3a}.mainNav__preTitle{color:#9f9fa5;display:block;font-family:"franklin-gothic-urw",sans-serif;font-size:.9rem;letter-spacing:2px;margin-bottom:.2rem;text-transform:uppercase}.mainNav__title{display:block;font-size:1.2rem;font-weight:700;max-width:16rem}.mainNav__button{display:none}@media (max-width: 600px){.mainNav__button{color:#2e2f3a;display:block;float:right;font-size:2rem}}.toc.toc{color:white;counter-reset:item;float:left;margin-left:calc(-21rem + 2rem);padding:1.8rem 0 1.8rem 0;position:-webkit-sticky;position:sticky;top:calc(50vh - 4.5rem);-webkit-transform:translateY(-50%);transform:translateY(-50%);-webkit-transition:.8s all ease;transition:.8s all ease;width:21rem;z-index:4}.toc.toc:hover{margin-left:0}@media (max-width: 600px){.toc.toc{float:none;margin:0 auto;padding:0;position:static;-webkit-transform:none;transform:none;width:100%}}.toc.toc li{position:relative}.toc.toc li:first-of-type{border-radius:0 .5rem 0 0;overflow:hidden}@media (max-width: 600px){.toc.toc li:first-of-type{border-radius:0}}.toc.toc li:last-of-type{border-radius:0 0 .5rem 0;overflow:hidden}@media (max-width: 600px){.toc.toc li:last-of-type{border-radius:0}}.toc.toc li::after{content:counter(item);counter-increment:item;font-family:"franklin-gothic-urw",sans-serif;position:absolute;right:.8rem;text-shadow:1px 1px 1px rgba(0,0,0,0.3);top:1rem}.toc.toc a{background:#3ca573;color:#f7f7f7;display:block;padding:1rem;text-decoration:none;-webkit-transition:.4s all ease;transition:.4s all ease}.toc.toc a:link,.toc.toc a:visited,.toc.toc a:active{color:#f7f7f7}.toc.toc a:hover{background:#a4cdac;color:#f7f7f7}.toc.toc .nav-active.nav-active{background:#ecef86;color:#2e2f3a}.toc ul{font-family:"freight-text-pro",serif;font-size:1.2rem;list-style-type:none;margin:0;padding:0}.toc__preTitle{color:#9f9fa5;display:block;font-family:"franklin-gothic-urw",sans-serif;letter-spacing:3px;margin-right:2rem;mix-blend-mode:difference;padding-left:1rem;text-transform:uppercase;max-width:calc(21rem - 2rem)}@media (max-width: 600px){.toc__preTitle{display:none}}.toc__title{color:#9f9fa5;display:inline-block;font-size:1.3em;margin-right:2rem;mix-blend-mode:difference;padding:0 0 .6rem 1rem}@media (max-width: 600px){.toc__title{display:none}}.floatLeft.floatLeft{float:left;margin:0;width:calc(33% - (2.5rem/2))}@media (max-width: 600px){.floatLeft.floatLeft{float:none;margin:auto;width:100%}}[class*='bg--']{margin:0 !important;padding:3rem 0}.bg--white{background:#f7f7f7;color:#313131}.bg--white a{border-color:rgba(159,159,165,0)}.bg--white a:link,.bg--white a:active{color:#9f9fa5}.bg--white a:visited{color:#2e2f3a}.bg--white a:hover{border-color:#9f9fa5}.bg--green{background:#3ca573;color:#f7f7f7}.bg--lightGrey{background:#E8E8E8;color:#313131}.bg--lightGrey a{border-color:rgba(159,159,165,0)}.bg--lightGrey a:link,.bg--lightGrey a:active{color:#9f9fa5}.bg--lightGrey a:visited{color:#2e2f3a}.bg--lightGrey a:hover{border-color:#9f9fa5}.footer{background:#E8E8E8;min-height:12rem;margin:0;padding:4rem 0 6rem}.footer__meta{color:#313131;display:-webkit-box;display:-ms-flexbox;display:flex}@media (max-width: 600px){.footer__meta{-webkit-box-orient:vertical;-webkit-box-direction:normal;-ms-flex-direction:column;flex-direction:column}}.footer__meta__desc{-webkit-box-flex:2;-ms-flex:2;flex:2;font-size:1.2rem;line-height:1.4;margin-right:2rem}@media (max-width: 600px){.footer__meta__desc{margin-bottom:1rem}}.footer__meta__nav{-webkit-box-flex:1;-ms-flex:1;flex:1;font-size:1.4rem}.footer__meta__nav a{border-top:1px solid #313131;color:#313131;display:block;padding:1rem 0;text-decoration:none}.footer__logos{border-top:1px solid #313131;display:-webkit-box;display:-ms-flexbox;display:flex;margin:1rem auto 0;-webkit-box-pack:justify;-ms-flex-pack:justify;justify-content:space-between;padding:2rem 0 0 0}@media (max-width: 600px){.footer__logos{-webkit-box-orient:vertical;-webkit-box-direction:normal;-ms-flex-direction:column;flex-direction:column}}.footer__logos>img{width:29%;max-width:18rem}@media (max-width: 600px){.footer__logos>img{margin:1rem auto;padding:0;width:100%}}.footer__logos .footer__logos__reboot{max-width:13rem}.button{border:2px solid #f7f7f7;cursor:pointer;display:inline-block;font-size:1.6rem;margin:1rem 0;padding:1.2rem 1.5rem;position:relative;-webkit-transition:.2s all ease;transition:.2s all ease}.button:hover{background:rgba(255,255,255,0.1)}.bg--white .button,.bg--lightGrey .button{border-color:#313131}.button a:link,.button a:active,.button a:visited{color:#f7f7f7;text-decoration:none}.button .button__type{display:block;font-family:"franklin-gothic-urw",sans-serif;font-size:1.1rem;letter-spacing:2px;opacity:.5;text-transform:uppercase}.button.flyOutButton::before{content:'➔';opacity:.3;position:absolute;right:1rem;top:.8rem}.flyOut{display:-webkit-box;display:-ms-flexbox;display:flex;margin:0;position:fixed;width:100%;height:100%;top:0;left:0;z-index:999999;pointer-events:none}.flyOut.flyOut__active{pointer-events:auto}.flyOut__bg{position:absolute;width:100%;height:100%;top:0;left:0;background-color:rgba(0,0,0,0.75);opacity:0;-webkit-transition:opacity .3s;transition:opacity .3s}.flyOut__active .flyOut__bg{opacity:1}.flyOut__inner{background:#E8E8E8;color:#313131;left:100%;margin-left:auto;overflow-y:auto;position:relative;width:1020px;max-width:100%;-webkit-transition:left .4s;transition:left .4s}.flyOut__active .flyOut__inner{left:0}.flyOut__inner__text{padding:3.5rem 2.5rem}.flyOut__active .flyOut__inner__text{left:0}.flyOut__close{cursor:pointer;pointer-events:all}.flyOut__active .flyOut__close{background:#E8E8E8;border:2px solid #313131;display:block;font-family:"franklin-gothic-urw",sans-serif;padding:.6rem .7rem .5rem;position:fixed;top:1rem}.flyOut__close svg{width:1rem;height:1rem}.meter__wrap{font-size:1.5rem;margin:-.3rem 0 1rem;padding-top:1rem;position:relative;width:50%}@media (max-width: 600px){.meter__wrap{margin-top:0;width:100%}}.meter__wrap::after{content:'Effect of coping strategy';display:block;font-family:"franklin-gothic-urw",sans-serif;font-size:.8rem;letter-spacing:2px;margin:.5rem 0 0 0;opacity:.4;text-align:center;text-transform:uppercase}.meter__label__negative{float:left}.meter__label__positive{float:right;text-align:right}.meter__arrow--down{border-left:.8rem solid transparent;border-right:.8rem solid transparent;border-top:.8rem solid #000;height:0;left:50%;margin-bottom:.5rem;position:absolute;-webkit-transform:translateX(-50%);transform:translateX(-50%);width:0;z-index:2}.meter{border:1px solid #9f9fa5;border-radius:20px;height:20px;overflow:hidden;margin:auto;position:relative;width:100%}.tick__wrap{display:-webkit-box;display:-ms-flexbox;display:flex;-webkit-box-orient:horizontal;-webkit-box-direction:normal;-ms-flex-direction:row;flex-direction:row;height:20px;position:absolute;width:100%;z-index:2}.tick{mix-blend-mode:multiply;border-left:1px solid #9f9fa5;display:block;-webkit-box-flex:1;-ms-flex-positive:1;flex-grow:1;height:20px;top:0}.tick:first-child{border:0}.meter__inner{bottom:0;height:20px;position:absolute;width:0}.meter__inner.positive{background:#3ca573;left:50%}.meter__inner.positive::after{background:#313131;content:'';height:20px;left:0;position:absolute;width:1px;z-index:3}.meter__inner.negative{background:#ecef86;left:50%;-webkit-transform:translateX(-100%);transform:translateX(-100%)}.meter__inner.negative::after{background:#313131;content:'';height:20px;position:absolute;right:0;width:1px;z-index:3}.profile{display:block}@media (max-width: 600px){.profile{width:100%}}.government .profile{max-width:47rem}.ai2html{font-family:"franklin-gothic-urw",sans-serif}.g-flyOutButton{cursor:pointer;-webkit-transition:.2s all ease;transition:.2s all ease}.g-flyOutButton:hover{text-decoration:underline}@media (max-width: 768px){.g-desktop{display:none}}@media (max-width: 600px){.g-desktop{display:none}}@media (min-width: 769px){.g-tablet{display:none}}@media (max-width: 600px){.g-tablet{display:none}}@media (min-width: 769px){.g-mobile{display:none}}@media (max-width: 768px){.g-mobile{display:none}}@media (max-width: 600px){.g-mobile{display:block}}.timeline{-webkit-box-align:top;-ms-flex-align:top;align-items:top;background:#E8E8E8;color:#313131;display:-webkit-box;display:-ms-flexbox;display:flex;margin:3rem 5% 1rem;position:relative;width:100%;max-width:1200px}@media (max-width: 600px){.timeline{height:480px}}.top{position:absolute;top:0}.bottom{position:absolute;bottom:0}.timeline__scale{position:relative;background:#3ca573;width:40px;height:600px;color:#fff}@media (max-width: 600px){.timeline__scale{height:480px}}.timeline__scale .top,.timeline__scale .bottom{font-size:35px;font-weight:700;text-align:center;margin-left:7px}.timeline__scale__label{-webkit-transform:rotate(-90deg);transform:rotate(-90deg);position:absolute;left:-50px;top:calc(50% - 30px);font-family:"franklin-gothic-urw",sans-serif;text-transform:uppercase}.timeline__viewport{overflow:scroll;white-space:nowrap;width:100%}.timelineWindow{width:70%;height:600px;z-index:0;position:absolute}@media (max-width: 600px){.timelineWindow{height:480px}}.timeline__section{display:inline-block;clear:none;width:450px;height:600px;position:relative;border-right:1px solid #2e2f3a}@media (max-width: 600px){.timeline__section{width:250px;height:480px}}.timeline__section svg{height:600px;opacity:.2;position:absolute;-webkit-transition:1s all ease;transition:1s all ease;width:100%;z-index:0}@media (max-width: 600px){.timeline__section svg{height:480px}}.active svg{opacity:1}.timeline__section__year{background:#fff;bottom:0;font-family:"franklin-gothic-urw",sans-serif;padding:.5rem;position:absolute;text-align:center;width:100%;z-index:2}.timeline__section__introduction{margin:15px;position:absolute;top:0;-webkit-transform:translateY(50%);transform:translateY(50%);white-space:normal;z-index:2}.timeline__section__introduction p{font-size:2rem;font-weight:700;line-height:1.2;opacity:.3;max-width:16rem}.timeline__section__event{font-family:"freight-text-pro",serif;padding:0 15px;position:absolute;top:25rem;white-space:normal;z-index:2}@media (max-width: 600px){.timeline__section__event{top:19rem}}.timeline__section__event p{font-family:"freight-text-pro",serif;font-size:1rem}@media (max-width: 600px){.timeline__section__event p{font-size:.8rem}}.timeline__section__event__title::before,.timeline__section__implication::before{color:#313131;display:block;font-family:"franklin-gothic-urw",sans-serif;font-size:.8rem;font-weight:700;letter-spacing:2px;margin-bottom:.3rem;opacity:.5;text-transform:uppercase}.timeline__section__event__title{display:block;font-size:1.2rem;font-weight:700;margin-bottom:.5rem}@media (max-width: 600px){.timeline__section__event__title{font-size:1rem;margin-bottom:.3rem}}.timeline__section__event__title::before{content:'Event'}.timeline__section__implication{border-bottom:1px solid #313131;margin:15px;opacity:0;padding-bottom:.5rem;position:absolute;top:0;-webkit-transition:1s all ease;transition:1s all ease;white-space:normal;z-index:2}.timeline__section__implication::before{content:'Implication'}.active .timeline__section__implication{opacity:1}.timeline__section__implication p,.timeline__section__implication li{font-family:"franklin-gothic-urw",sans-serif;font-size:1rem;line-height:1.3;margin-bottom:.8rem}@media (max-width: 600px){.timeline__section__implication p,.timeline__section__implication li{font-size:.8rem}}.timelineButtonLeft{float:left}.timelineButtonRight{float:right}
